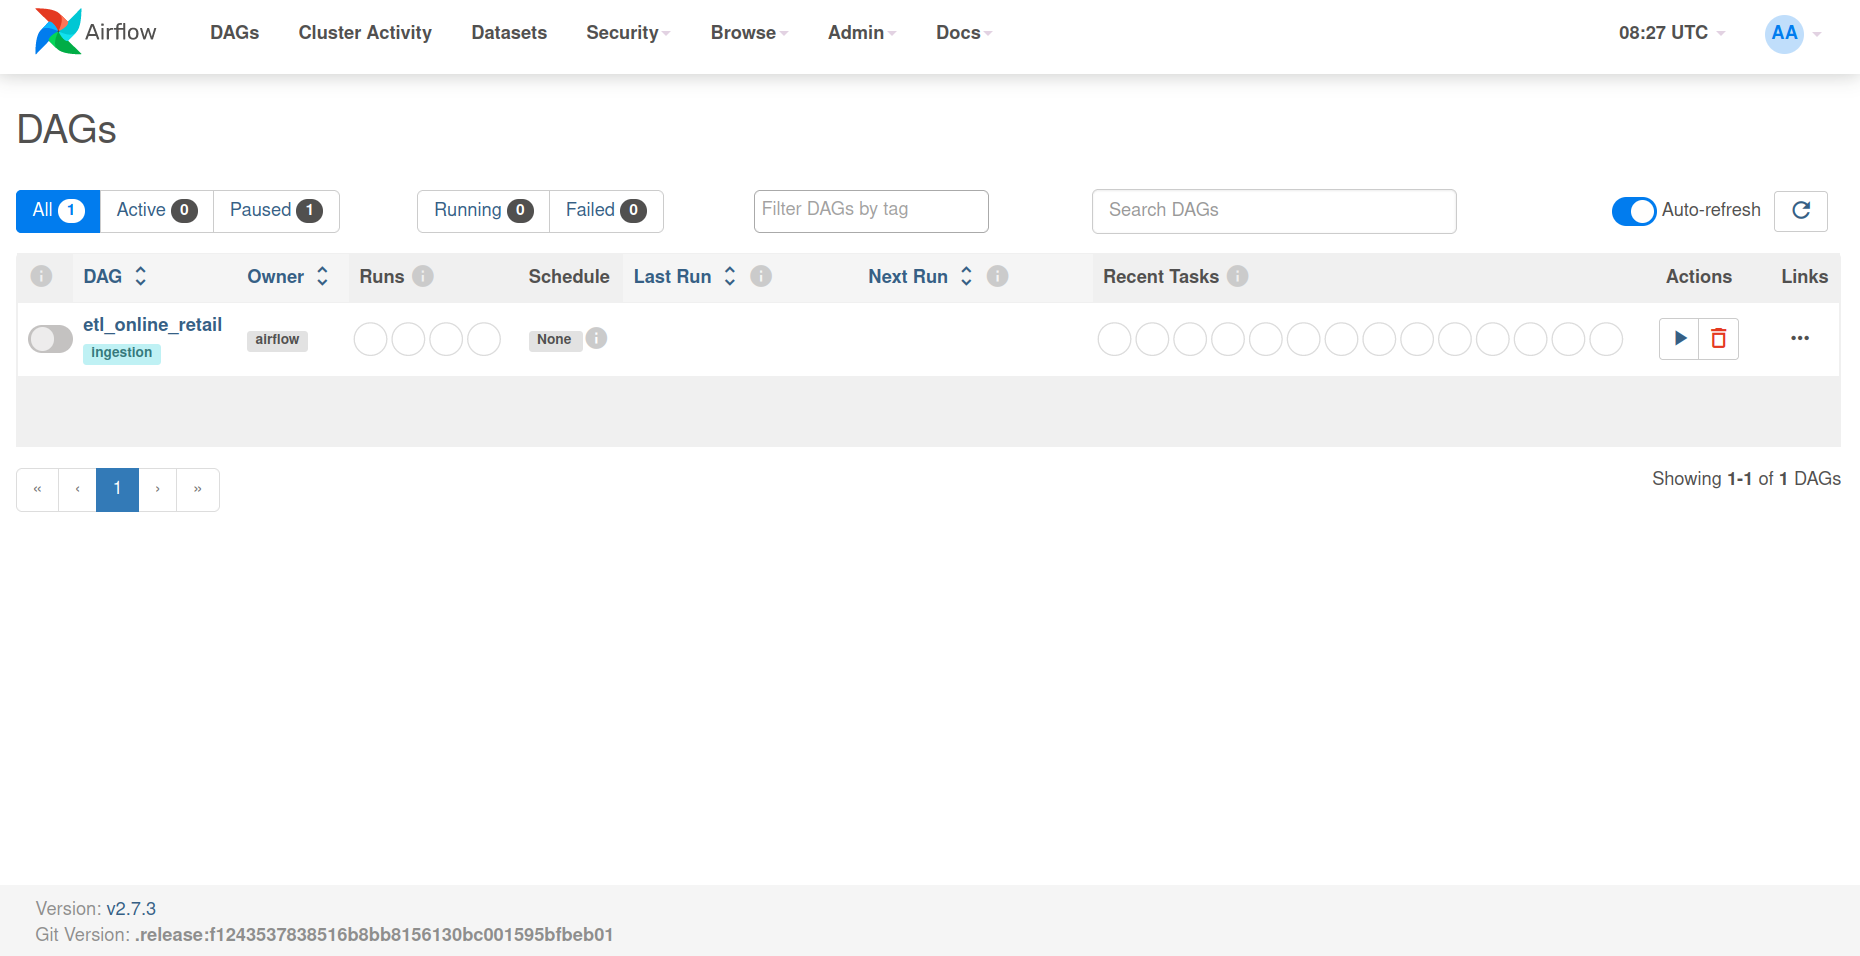
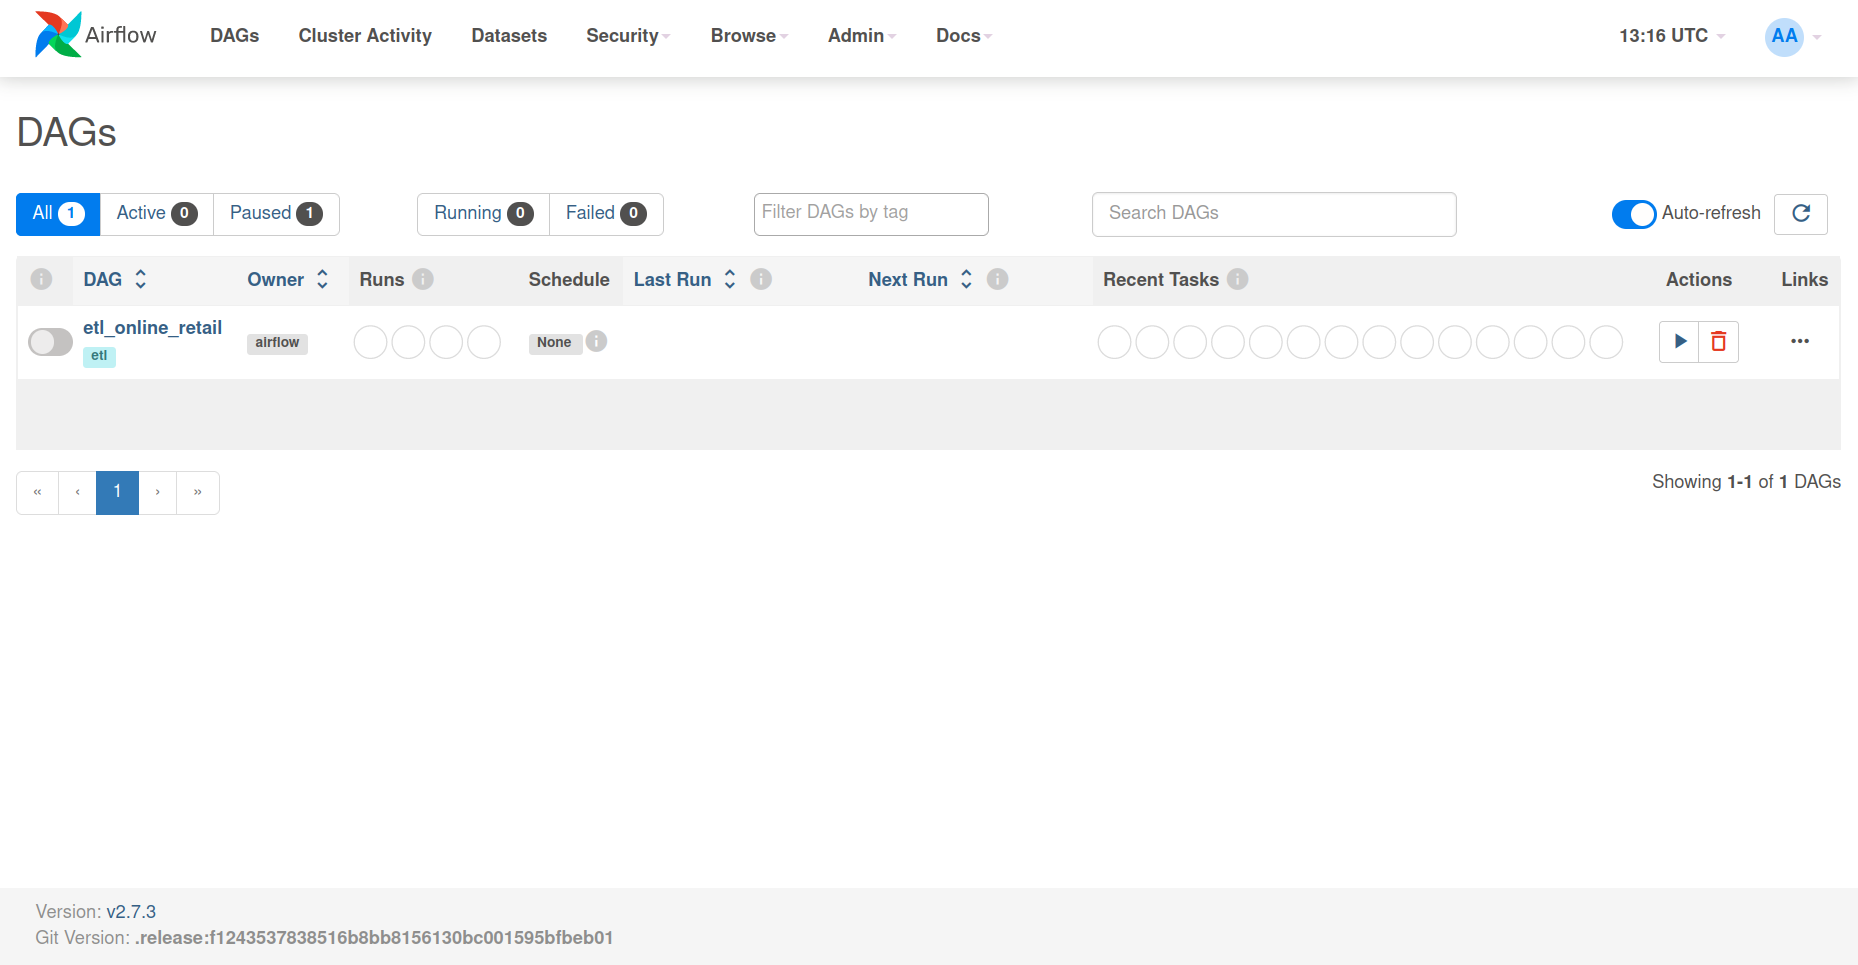
Modify DWH schema and README.md accordingly

diff --git a/airflow/dags/etl.py b/airflow/dags/etl.py
@@ -27,7 +27,7 @@ with DAG(
     schedule = None,
     start_date = datetime(2009, 1, 1),
     catchup = False,
-    tags = ["ingestion"]
+    tags = ["etl"]
 ) as dag:
 
     # Create tables with constraints    
@@ -37,15 +37,13 @@ with DAG(
     )
 
 
-    # Initial cleaning of source data
+    # INITIAL CLEANING OF SOURCE DATA
     @task(task_id = "initial_clean")
     def initial_clean():
         # Cast customer ID column as Int32 to remove decimals
         df = pd.read_csv(
             f"{DIR_DATA}/online_retail.csv", 
             dtype = {"Customer ID": "Int32"},
-            parse_dates = ["InvoiceDate"],
-            date_format = "%Y-%m-%d %H:%M:%S"
         ) \
             .rename(    # Rename columns
                 columns = {
@@ -85,32 +83,26 @@ with DAG(
             (df["customer_id"].str.len() == 5) & (df["customer_id"].str.isdigit())
         ]
 
-        # Add date columns
-        df["year"] = df["invoice_date"].dt.year
-        df["month"] = df["invoice_date"].dt.month
-        df["day"] = df["invoice_date"].dt.day
-        df["day_of_week"] = df["invoice_date"].dt.day_of_week
-        df["invoice_date"] = df["invoice_date"].dt.date
+        # Process date columns into dimension ID
+        df["invoice_date_dim_id"] = df["invoice_date"] \
+            .str.split(" ", n = 1) \
+            .str[0] \
+            .str.replace("-", "") \
+            .astype("int")
+        df = df.drop(columns = "invoice_date")
 
         # Save as temp data
         df.to_csv(f"{DIR_TEMP}/initial_cleaned.csv", index = False)
     ini_clean = initial_clean()
 
 
-    # Read raw xlsx file into pd.DataFrame. Clean data. Write as cleaned csv.
+    # STAGE CLEANED DATA INTO DIMENSION TABLE DATA
     @task(task_id = "stage_dims")
     def stage_dims():
         df = pd.read_csv(
             f"{DIR_TEMP}/initial_cleaned.csv",
             dtype = {"customer_id": "string"}   # to use df.merge()
         )
-
-        # Stage db into tables in schema and write to csv files
-        # dim_dates
-        tbl_date = df[["invoice_date", "year", "month", "day", "day_of_week"]] \
-            .rename(columns = {"invoice_date": "date"}) \
-            .drop_duplicates()
-        tbl_date.to_csv(f"{DIR_TEMP}/dim_dates.csv", index = False)
 
         # dim_customers
         # Slowly changing dim, so take most recent record of same customer_id (type 1)
@@ -134,14 +126,49 @@ with DAG(
     st_dims = stage_dims()
 
 
-    # Load dims into DWH
+    # LOAD STAGED DIM DATA INTO DWH
     @task(task_id = "load_dims")
     def load_dims():
         # SQLAlchemy engine for df.to_sql()
         engine = create_engine("postgresql://airflow:airflow@postgres:5432/")
 
         # Load each dim table
-        for tbl in ["dim_dates", "dim_customers", "dim_products"]:
+        # dim_dates will be generated using pandas (2008-2012)
+        df_date = pd.DataFrame(
+            data = {
+                "date": pd.date_range(
+                    start = "2008-01-01", 
+                    end = "2012-01-01",
+                    freq = "D"
+                )
+            }
+        )
+        df_date["date_dim_id"] = df_date["date"] \
+            .astype("string").str.replace("-","")
+        df_date["year"] = df_date["date"].dt.year
+        df_date["month"] = df_date["date"].dt.month
+        df_date["day"] = df_date["date"].dt.day
+        df_date["day_of_week"] = df_date["date"].dt.isocalendar().day
+        df_date["week"] = df_date["date"].dt.isocalendar().week
+        df_date.to_sql(
+            name = "dim_dates",
+            schema = "retail",
+            con = engine,
+            if_exists = "append",
+            index = False,
+            dtype = {
+                "date_dim_id": dtypes.INTEGER(),
+                "date": dtypes.DATE(),
+                "year": dtypes.SMALLINT(),
+                "month": dtypes.SMALLINT(),
+                "day": dtypes.SMALLINT(),
+                "day_of_week": dtypes.SMALLINT(),
+                "week": dtypes.SMALLINT()
+            }
+        )
+
+        # Other dim tables will be loaded from temp staging area
+        for tbl in ["dim_customers", "dim_products"]:
             df = pd.read_csv(
                 f"{DIR_TEMP}/{tbl}.csv"
             )
@@ -152,11 +179,6 @@ with DAG(
                 if_exists = "append",
                 index = False,
                 dtype = {
-                    "date": dtypes.DATE(),
-                    "year": dtypes.SMALLINT(),
-                    "month": dtypes.SMALLINT(),
-                    "day": dtypes.SMALLINT(),
-                    "day_of_week": dtypes.SMALLINT(),
                     "customer_id": dtypes.CHAR(5),
                     "country": dtypes.VARCHAR(),
                     "stock_code": dtypes.CHAR(5),
@@ -166,7 +188,7 @@ with DAG(
     l_dims = load_dims()
 
 
-    # Stage fact and bridge table
+    # STAGE FACT TABLE
     @task(task_id = "stage_fact")
     def stage_fact():
         # SQLAlchemy engine for df.read_sql()
@@ -191,7 +213,7 @@ with DAG(
         )
         tbl_invoices = df[[
             "invoice_id",
-            "invoice_date",
+            "invoice_date_id",
             "stock_code",
             "customer_id",
             "unit_price",
@@ -218,13 +240,13 @@ with DAG(
     st_fct = stage_fact()
 
 
-    # Load fact and bridge table
+    # LOAD FACT TABLE INTO DWH
     @task(task_id = "load_fact")
     def load_fact():
         # SQLAlchemy engine for df.to_sql()
         engine = create_engine("postgresql://airflow:airflow@postgres:5432/")
 
-        # Load each dim table
+        # Load fact table
         df = pd.read_csv(
             f"{DIR_TEMP}/fct_invoices.csv"
         )
@@ -237,7 +259,7 @@ with DAG(
             dtype = {
                 "invoice_id": dtypes.CHAR(6),
                 "product_dim_id": dtypes.INTEGER(),
-                "invoice_date": dtypes.DATE(),
+                "invoice_date_id": dtypes.INTEGER(),
                 "customer_dim_id": dtypes.INTEGER(),
                 "unit_price": dtypes.DECIMAL(8,2),
                 "quantity": dtypes.SMALLINT(),
